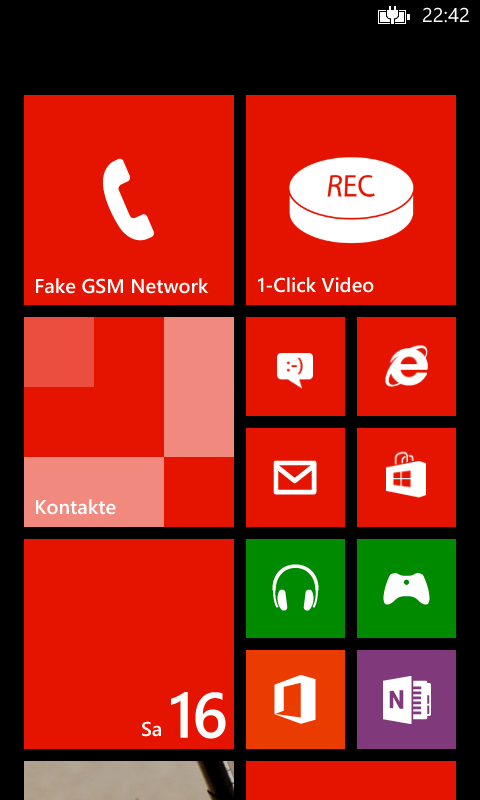
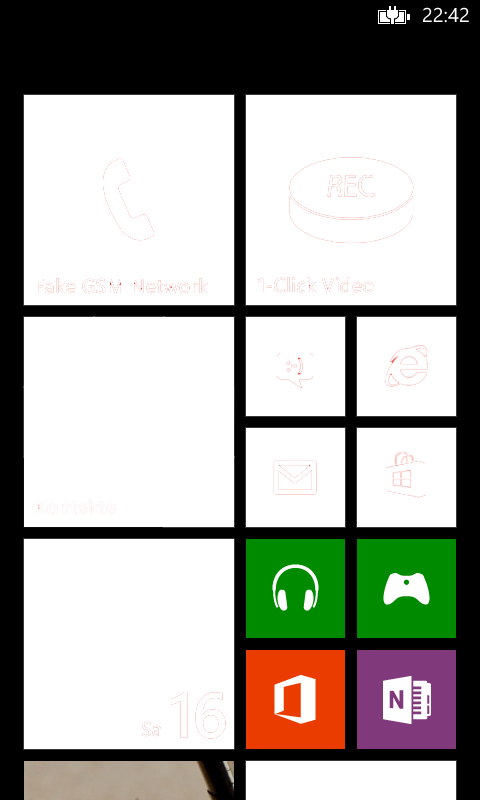
TilePage makeover

diff --git a/one_click_video/TilePage.xaml b/one_click_video/TilePage.xaml
@@ -13,21 +13,55 @@
 	Foreground="{StaticResource PhoneForegroundBrush}"
 	SupportedOrientations="Portrait" Orientation="Portrait"
 	mc:Ignorable="d"
-	shell:SystemTray.IsVisible="True">
+	shell:SystemTray.IsVisible="True" shell:SystemTray.BackgroundColor="Black" shell:SystemTray.ForegroundColor="BlanchedAlmond">
 	
 	<!--LayoutRoot ist das Stammraster, in dem alle anderen Seiteninhalte platziert werden-->
-	<Grid x:Name="LayoutRoot" Background="Transparent">
+	<Grid x:Name="LayoutRoot" Background="Black">
 		<Grid.RowDefinitions>
 			<RowDefinition Height="Auto"/>
 			<RowDefinition Height="*"/>
 		</Grid.RowDefinitions>
-		<Button Content="pin tile" Margin="10,222,272,0" Grid.Row="1" VerticalAlignment="Top" Width="198" Click="Button_Click_1"/>
-		<Grid Margin="230,70,36,0" Grid.RowSpan="2" Width="214" Height="224" MinWidth="214" MinHeight="224" MaxWidth="214" MaxHeight="224" HorizontalAlignment="Center" VerticalAlignment="Top">
+		<Button Content="pin tile" Margin="15,283,0,0" Grid.Row="1" VerticalAlignment="Top" Width="225" Click="Button_Click_1" HorizontalAlignment="Left" BorderBrush="White" Foreground="White"/>
+		<Grid Margin="245,30,0,0" Grid.RowSpan="2" Width="214" Height="224" MinWidth="214" MinHeight="224" MaxWidth="214" MaxHeight="224" HorizontalAlignment="Left" VerticalAlignment="Top">
 			<Rectangle HorizontalAlignment="Left" Height="210" Margin="4,14,0,0" Stroke="{StaticResource PhoneAccentBrush}" VerticalAlignment="Top" Width="210" Fill="{StaticResource PhoneAccentBrush}"/>
 			<Image Margin="3,1,1,13" Source="/RecordingTileImageMedium.png" Stretch="Fill" Width="210" Height="210"/>
-			<TextBlock HorizontalAlignment="Left" Height="35" Margin="16,189,0,0" TextWrapping="Wrap" Text="1-Click Video" VerticalAlignment="Top" Width="155"/>
+			<TextBlock HorizontalAlignment="Left" Height="35" Margin="16,189,0,0" TextWrapping="Wrap" Text="1-Click Video" VerticalAlignment="Top" Width="155" Foreground="#DEFFFFFF"/>
 		</Grid>
-		<Image Margin="35,355,220,38" Grid.RowSpan="2" Source="/TilepageScreenshot.png" Stretch="Fill" Width="225" Height="375" VerticalAlignment="Top"/>
+		<Grid Margin="15,393,0,0" Grid.RowSpan="2" HorizontalAlignment="Left" VerticalAlignment="Top">
+			<Rectangle HorizontalAlignment="Left" Height="355" Margin="5,20,0,0" VerticalAlignment="Top" Width="215">
+				<Rectangle.Stroke>
+					<SolidColorBrush Color="{StaticResource PhoneAccentColor}"/>
+				</Rectangle.Stroke>
+				<Rectangle.Fill>
+					<SolidColorBrush Color="{StaticResource PhoneAccentColor}"/>
+				</Rectangle.Fill>
+			</Rectangle>
+			<Image Source="/TilepageScreenshot.png" Stretch="Fill" Width="225" Height="375" VerticalAlignment="Top"/>
+		</Grid>
+		<Grid Margin="295,275,110,284" Grid.RowSpan="2" HorizontalAlignment="Left" VerticalAlignment="Top">
+			<Rectangle HorizontalAlignment="Left" Height="166" Margin="65,10,0,0" VerticalAlignment="Top" Width="10" Fill="White" Stroke="White"/>
+			<Rectangle HorizontalAlignment="Left" Height="113.415" Margin="14.476,132.156,0,-36.571" VerticalAlignment="Top" Width="10" Fill="White" Stroke="White" RenderTransformOrigin="0.5,0.5" UseLayoutRounding="False" d:LayoutRounding="Auto">
+				<Rectangle.RenderTransform>
+					<CompositeTransform Rotation="72"/>
+				</Rectangle.RenderTransform>
+			</Rectangle>
+			<Grid Margin="-40.343,154.498,75.343,-41.498" RenderTransformOrigin="0.5,0.5" UseLayoutRounding="False" d:LayoutRounding="Auto">
+				<Grid.RenderTransform>
+					<CompositeTransform Rotation="27"/>
+				</Grid.RenderTransform>
+				<Rectangle HorizontalAlignment="Left" Height="67" VerticalAlignment="Top" Width="10" Fill="White" Stroke="White"/>
+				<Rectangle HorizontalAlignment="Left" Height="67" Margin="30,28.5,0,0" VerticalAlignment="Top" Width="10" Fill="White" Stroke="White" RenderTransformOrigin="0.5,0.5" UseLayoutRounding="False" d:LayoutRounding="Auto">
+					<Rectangle.RenderTransform>
+						<CompositeTransform Rotation="90"/>
+					</Rectangle.RenderTransform>
+				</Rectangle>
+			</Grid>
+		</Grid>
+		<TextBlock HorizontalAlignment="Left" Height="124" Margin="48,101,0,0" Grid.RowSpan="2" TextWrapping="Wrap" VerticalAlignment="Top" Width="157" Foreground="White">
+			<Run Text="Tap Record-Tile"/>
+			<LineBreak/>
+			<Run Text="to start recording."/>
+		</TextBlock>
 		<!--TitlePanel enthält den Namen der Anwendung und den Seitentitel-->
 
 		<!--ContentPanel - zusätzliche Inhalte hier platzieren-->
